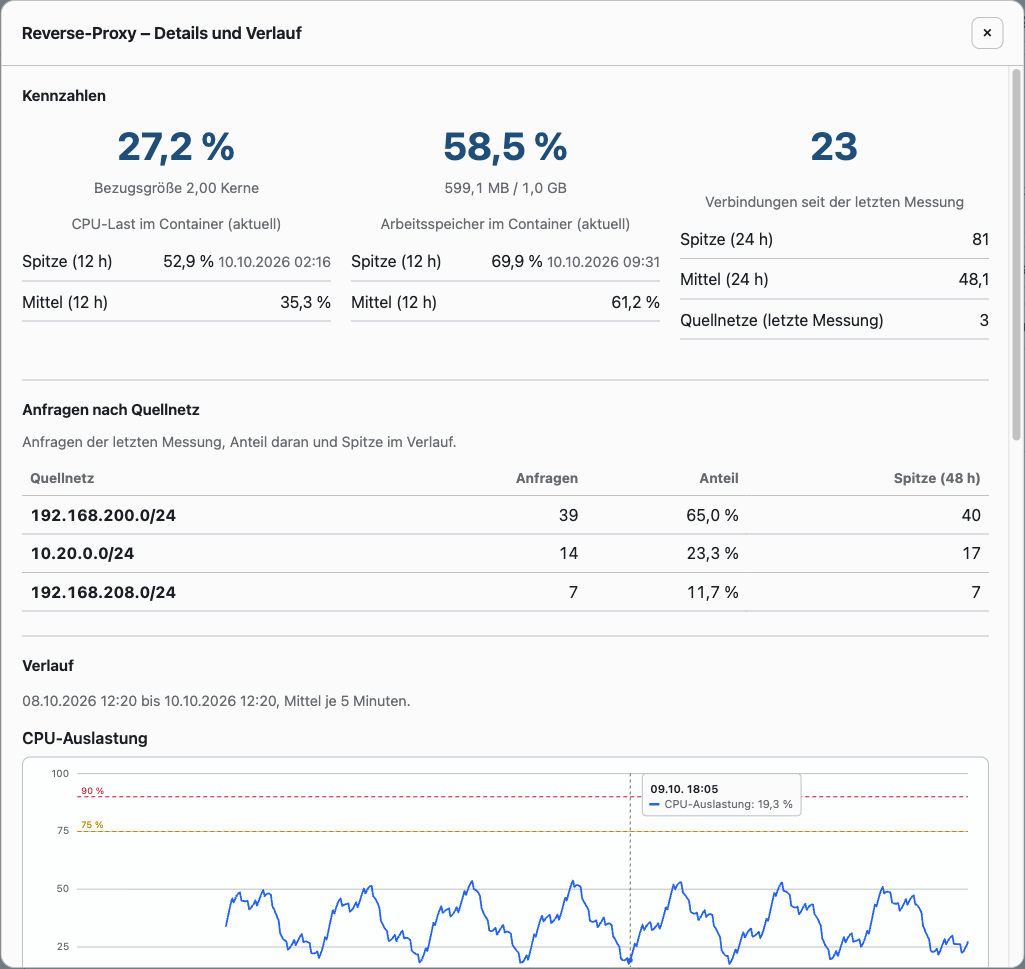
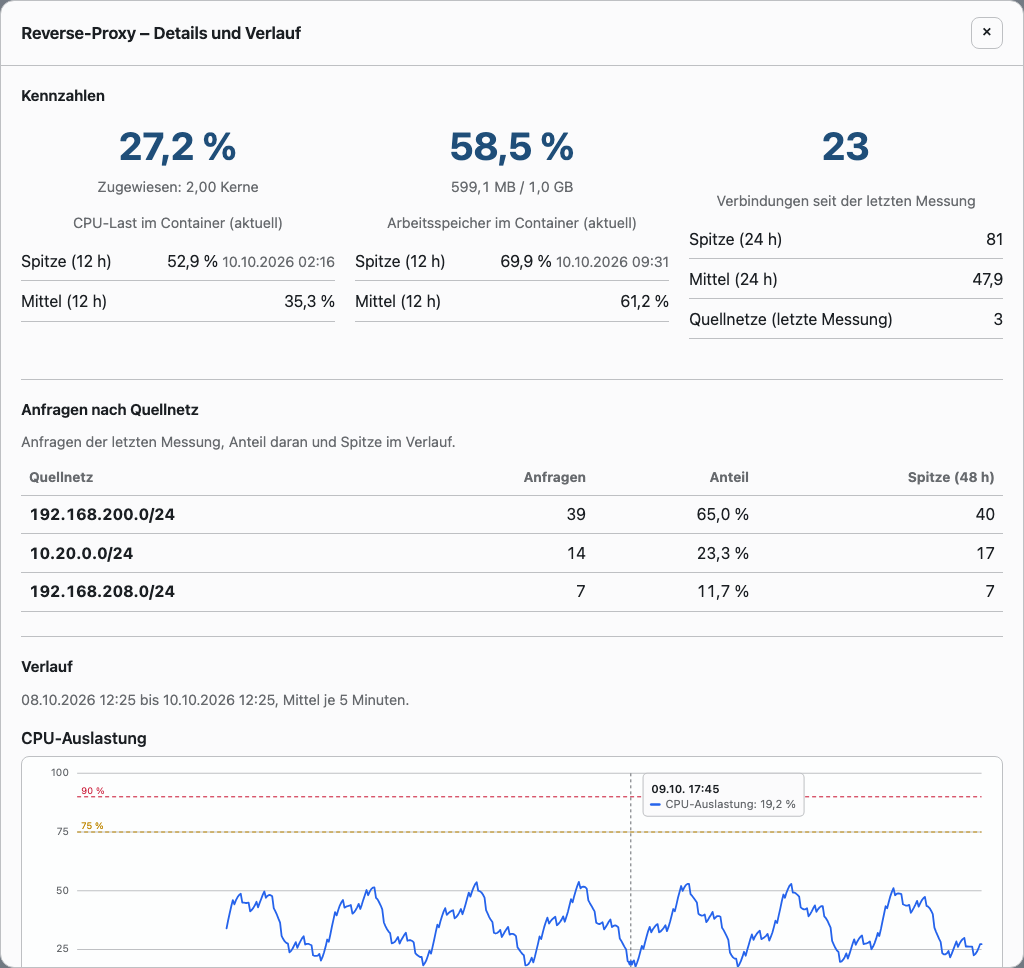
Overlay Reverse-Proxy: Bezugsgröße als "Zugewiesen:" beschriften
Die Detailansicht nennt die zugeteilten Kerne wie die Kachel "Zugewiesen:";
die Screenshots 123 (Details) und 125 (Verlauf mit Wertanzeige) sind neu
aufgenommen.

diff --git a/views/admin/reverse-proxy-dialog.php b/views/admin/reverse-proxy-dialog.php
@@ -58,7 +58,7 @@ $charts = new AuthMetricsCharts();
                             <?= Html::e($percent((float) $cpu['current'])) ?>
                         </p>
                         <p class="auth-metrics__reference">
-                            Bezugsgröße <?= Html::e(number_format((float) $cpu['limit'], 2, ',', '.')) ?> Kerne
+                            Zugewiesen: <?= Html::e(number_format((float) $cpu['limit'], 2, ',', '.')) ?> Kerne
                         </p>
                         <p class="card__hint">CPU-Last im Container (aktuell)</p>
                         <ul class="status-list">
